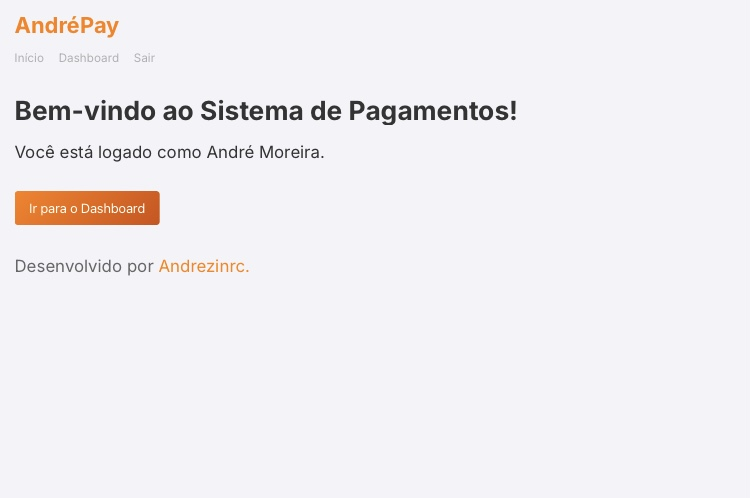
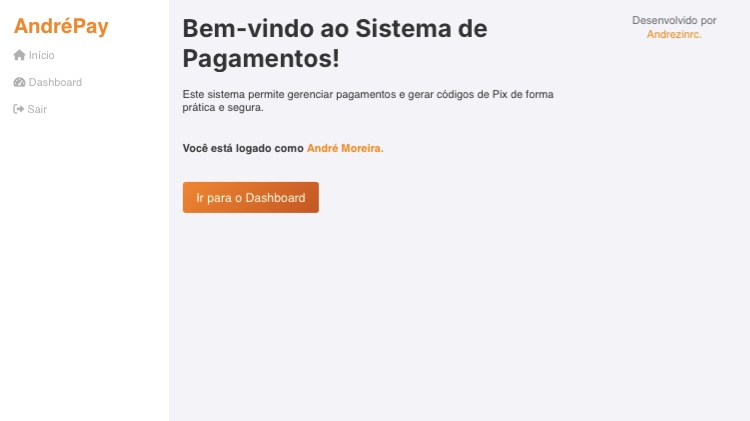
Adiciona confirmação de PIX e melhora layout

diff --git a/app/static/styles.css b/app/static/styles.css
@@ -5,26 +5,28 @@
     margin: 0;
     padding: 0;
     box-sizing: border-box;
+    font-family: sans-serif;
 }
 
 body {
-    font-family: 'Inter', sans-serif;
     background-color: #f4f4f9;
     color: #333;
-    margin: 0;
-    padding: 0;
+    display: flex;
 }
 h1{
+    font-family: 'Inter', sans-serif;
     font-size: 1.4rem;
 }
 h2{
     font-size: 1.rem;
 }
 .cabecalho{
-    width: 100%;
     display: flex;
     flex-direction: column;
     padding: 20px;
+    width: 280px;
+    height: 100vh;
+    background-color: #fff;
 }
 .titulo h2{
     color: #ff7f00;
@@ -35,8 +37,8 @@ span{
 .menu-desk{
     display: flex;
     gap: 20px;
+    flex-direction: column;
     list-style: none;
-    align-items: center;
 }
 .nav-link{
     text-decoration: none;
@@ -46,20 +48,28 @@ span{
     color: #C0C0C0;
 }
 .boas-vindas-dash{
+    width: auto;
+    max-width: 500px;
     background: linear-gradient(135deg, #ff7f00, #d44d00);
     color: #fff;
     padding: 15px;
-    border-radius: 5px;
+    border-radius: 10px;
     margin-bottom: 20px;
+    margin: 0 auto;
     box-shadow: 0 2px 5px rgba(0, 0, 0, 0.1);
 }
-main {
-    padding: 20px;
-    max-width: 1200px;
-    margin: 0 auto;
+main { 
+    flex-grow: 1;
+    overflow-y: auto; 
 }
 
 
+.container{
+    display: flex;
+    flex-direction: column;
+    height: 100vh;
+    padding: 20px;
+}
 h1 {
     font-size: 36px;
     margin-bottom: 20px;
@@ -78,6 +88,8 @@ p{
     color: #333;
 }
 form{
+    position: relative;
+    top: 20%;
     width: 100%;
     max-width: 400px;
     margin: 0 auto;
@@ -173,7 +185,7 @@ ul{
 }
 
 input[type="number"] {
-    width: 50%;
+    width: 100%;
     display: inline-block;
 }
 
@@ -191,6 +203,17 @@ footer p{
 footer p span{
     color: #ff7f00;
 }
+@media screen and (max-width: 1024px){
+    body{
+        flex-direction: column;
+    }
+    .cabecalho,
+    .container{
+        width: 100%;
+        height: auto;
+    }
+    
+}
 @media (max-width: 768px) {
     .cabecalho{
         flex-direction: column;
@@ -204,5 +227,8 @@ footer p span{
     }
     .boas-vidas-dash{
         font-size: 1.5rem;
+    }
+    form {
+        top: auto;
     }
 }

diff --git a/app/templates/dashboard.html b/app/templates/dashboard.html
@@ -9,25 +9,47 @@
         <h2>Bem-vindo, {{ username }}!</h2>
         <h3><i class="fas fa-wallet"></i> Saldo Atual: R$ {% if balance is not none %}{{ balance }}{% else %}0{% endif %}</h3>
     </div>
+    
+    <br></br>
+    <div>
     <h3><i class="fas fa-credit-card"></i> Gerar Pix</h3>
+    <div style="display: flex; gap:10px;">
     <input type="number" id="valor_pix" placeholder="Digite o valor">
+    <input type="text" id="chave_pix" placeholder="Digite a chave Pix do destinatário">
+    </div>
     <button onclick="gerarPix()">Gerar Pix</button>
+    </div>
 
+    <br></br>
+    <div>
     <h3>Histórico de Pagamentos</h3>
-    <ul class="historico-pagamentos" style="color: #ff7f00; text-decoration: underline;">
+    <ul class="historico-pagamentos" style="text-decoration: underline;">
     {% for payment in payments %}
-        <li><i class="fas fa-check-circle"></i> R$ {{ payment.amount }} - Código Pix: {{ payment.pix_code }}</li>
+        <li>
+            <i class="fas fa-check-circle"></i> 
+            R$ {{ payment.amount }} - Código Pix: <a style="color: #ff7f00;">{{ payment.pix_code }}</a> - 
+            <strong>Status: {{ payment.status }}</strong>
+        </li>
     {% endfor %}
     </ul>
     </div>
+    </div>
+
     <script>
         function gerarPix() {
             let valor = document.getElementById("valor_pix").value;
+            let chave = document.getElementById("chave_pix").value;
+
+            if (!valor || !chave) {
+                alert("Por favor, insira o valor e a chave Pix do destinatário.");
+                return;
+            }
 
             fetch("{{ url_for('gerar_pix') }}", {
                 method: "POST",
                 headers: { "Content-Type": "application/json" },
-                body: JSON.stringify({ amount: valor })
+                body: JSON.stringify({ amount: valor, recipient_key: chave })
+
             })
             .then(response => response.json())
             .then(data => alert(data.message + " Código: " + data.pix_code))

diff --git a/app/templates/base.html b/app/templates/base.html
@@ -2,10 +2,10 @@
 <html lang="pt-br">
 <head>
     <meta charset="UTF-8">
-    <meta name="viewport" content="width=width-device-width, initial-scale=1">
+    <meta name="viewport" content="width=1100, initial-scale=1">
     <title>{% block title %}Sistema de Pagamento{% endblock %}</title>
     <link rel="stylesheet" href="{{ url_for('static', filename='styles.css') }}">
-     <link href="https://cdnjs.cloudflare.com/ajax/libs/font-awesome/6.0.0-beta3/css/all.min.css" rel="stylesheet">
+    <link href="https://cdnjs.cloudflare.com/ajax/libs/font-awesome/6.0.0-beta3/css/all.min.css" rel="stylesheet">
 </head>
 <body>
     <header class="cabecalho">

diff --git a/app/routes.py b/app/routes.py
@@ -48,9 +48,13 @@ def logout():
 @app.route("/gerar_pix", methods=["POST"])
 @login_required
 def gerar_pix():
-    amount = request.json.get("amount")
-    if not amount:
-        return jsonify({"error": "Valor inválido"}), 400
+    """Gera um pix e armazena no banco"""
+    data = request.json
+    amount = data.get("amount")
+    recipient_key = data.get("recipient_key")
+
+    if not amount or not recipient_key:
+        return jsonify({"error": "Valor ou chave Pix inválidos"}), 400
 
     try:
         amount = float(amount)
@@ -58,10 +62,16 @@ def gerar_pix():
         return jsonify({"error": "Valor de pagamento inválido"}), 400
 
     pix_code = f"000201{random.randint(100000, 999999)}"
-    
-    current_user.update_balance(amount)
 
-    new_payment = Payment(user_id=current_user.id, amount=amount, pix_code=pix_code)
+
+    new_payment = Payment(
+        user_id=current_user.id,
+        amount=amount,
+        pix_code=pix_code,
+        recipient_key=recipient_key,
+        status="pendente"
+    )
+    
     db.session.add(new_payment)
     db.session.commit()
 
@@ -71,6 +81,44 @@ def gerar_pix():
 @app.route("/extrato")
 @login_required
 def extrato():
+    """Retorna o extrato dos pagamento do usuario"""
     payments = Payment.query.filter_by(user_id=current_user.id).all()
-    extrato_data = [{"amount": p.amount, "pix_code": p.pix_code} for p in payments]
+    extrato_data = [
+        {
+            "amount": p.amount,
+            "pix_code": p.pix_code,
+            "recipient_key": p.recipient_key,
+            "status": p.status,
+            "timestamp": p.timestamp.strftime("%d/%m/%Y %H:%M:%S")
+        } 
+        for p in payments
+    ]
     return jsonify(extrato_data)
+
+
+@app.route("/confirmar_pix", methods=["POST"])
+@login_required
+def confirmar_pix():
+    """Simula a confirmacao de um pix"""
+    data = request.json
+    pix_code = data.get("pix_code")
+
+    payment = Payment.query.filter_by(pix_code=pix_code, user_id=current_user.id).first()
+    
+    if not payment:
+        return jsonify({"error": "Pagamento não encontrado"}), 404
+ 
+    if payment.status != "confirmado":
+        payment.status = "confirmado"
+        current_user.balance += payment.amount  
+
+        db.session.commit()
+
+        multiplicador = 1.05
+
+        current_user.balance *= multiplicador
+        db.session.commit()
+
+        return jsonify({"message": "Pix confirmado com sucesso!", "new_balance": current_user.balance})
+
+    return jsonify({"error": "Pix já foi confirmado."}), 400

diff --git a/migrations/versions/680b3fd90160_adiciona_chave_pix_status_e_timestamp.py b/migrations/versions/680b3fd90160_adiciona_chave_pix_status_e_timestamp.py
@@ -1,0 +1,36 @@
+"""Adiciona chave Pix, status e timestamp
+
+Revision ID: 680b3fd90160
+Revises: 1dc3e75ecd4c
+Create Date: 2025-02-12 13:31:27.342168
+
+"""
+from alembic import op
+import sqlalchemy as sa
+
+
+# revision identifiers, used by Alembic.
+revision = '680b3fd90160'
+down_revision = '1dc3e75ecd4c'
+branch_labels = None
+depends_on = None
+
+
+def upgrade():
+    # ### commands auto generated by Alembic - please adjust! ###
+    with op.batch_alter_table('payment', schema=None) as batch_op:
+        batch_op.add_column(sa.Column('recipient_key', sa.String(length=100), nullable=False))
+        batch_op.add_column(sa.Column('status', sa.String(length=20), nullable=True))
+        batch_op.add_column(sa.Column('timestamp', sa.DateTime(), nullable=True))
+
+    # ### end Alembic commands ###
+
+
+def downgrade():
+    # ### commands auto generated by Alembic - please adjust! ###
+    with op.batch_alter_table('payment', schema=None) as batch_op:
+        batch_op.drop_column('timestamp')
+        batch_op.drop_column('status')
+        batch_op.drop_column('recipient_key')
+
+    # ### end Alembic commands ###

diff --git a/app/models.py b/app/models.py
@@ -12,7 +12,6 @@ class User(db.Model, UserMixin):
     
     def update_balance(self, amount):
         """Atualiza o saldo do usuário"""
-
         if isinstance(amount, str):
             amount = float(amount)
         self.balance += amount
@@ -24,4 +23,13 @@ class Payment(db.Model):
     user_id = db.Column(db.Integer, db.ForeignKey('user.id'), nullable=False)
     amount = db.Column(db.Float, nullable=False)
     pix_code = db.Column(db.String(100), unique=True, nullable=False)
+    recipient_key = db.Column(db.String(100), nullable=False)
+
+    status = db.Column(db.String(20), default="pendente")
+
+    timestamp = db.Column(db.DateTime, default=db.func.current_timestamp())
+
     user = db.relationship('User', backref=db.backref('payments', lazy=True))
+
+    def __repr__(self):
+        return f"<Payment {self.pix_code} - {self.amount} - {self.status}>"

diff --git a/README.Md b/README.Md
@@ -1,2 +1,3 @@
 ![Tela do Projeto](inicio.jpeg)
+![Tela do Projeto](login.jpeg)
 ![Tela do Projeto](pay.jpeg)
